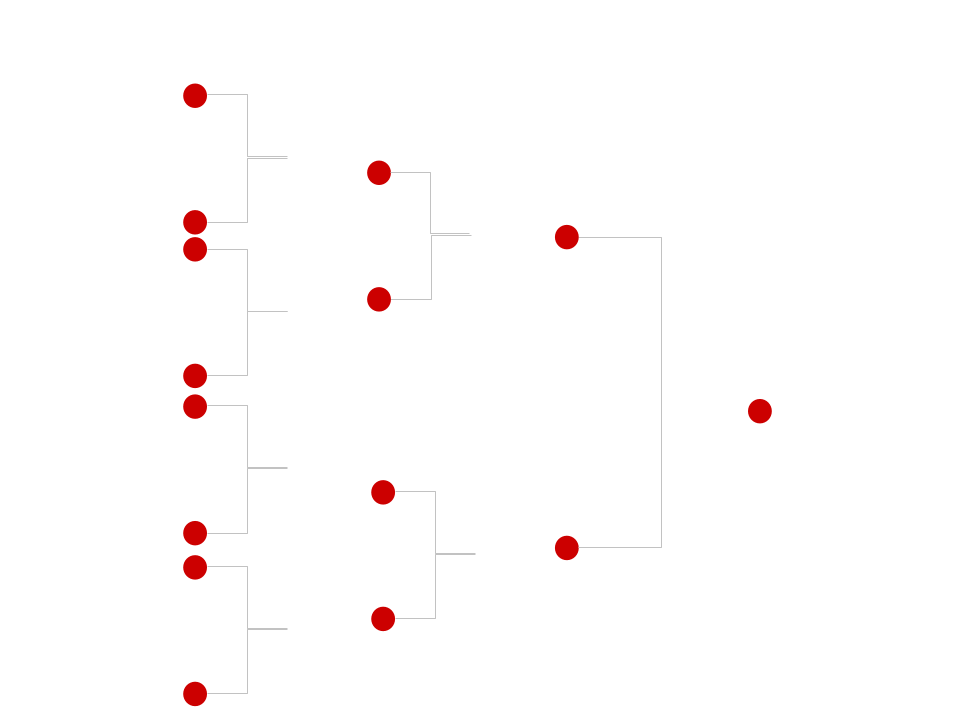
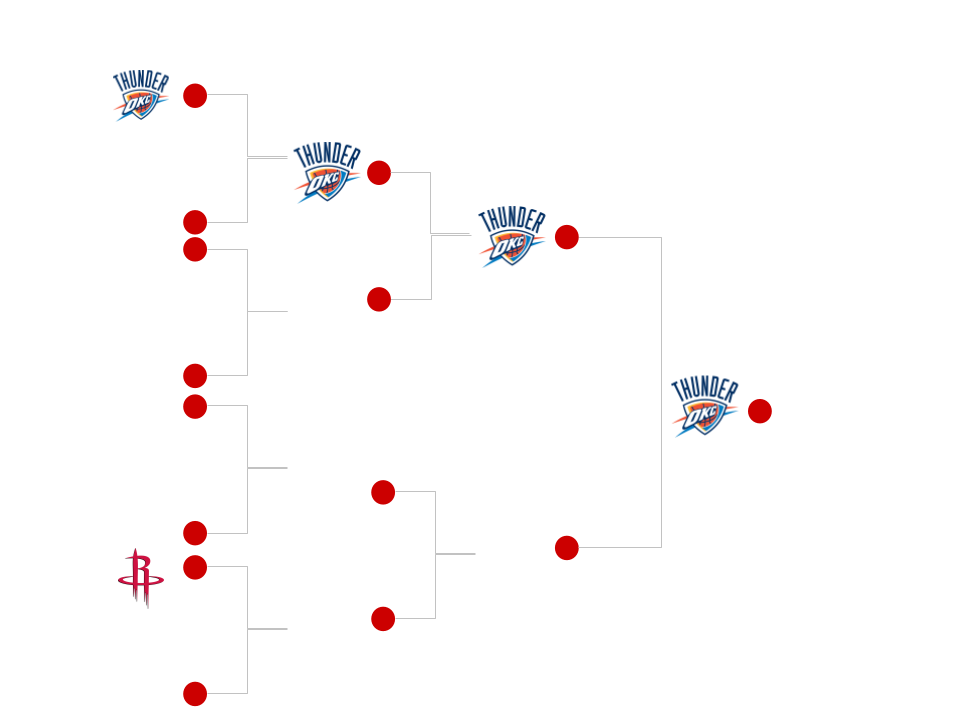
finished the model and page. waiting for play in round to end

diff --git a/frontend/src/prediction/Prediction.tsx b/frontend/src/prediction/Prediction.tsx
@@ -2,12 +2,19 @@ import React, { useState } from "react";
 import "./Prediction.css";
 import trophy from "./trophy.png";
 import west_bracket from "./west_bracket.png";
+import east_bracket from "./east_bracket.png";
+import thunder from "./Thunder.png";
+import * as Papa from "papaparse";
+import rawOddsCSV from "./odds/test_season_1.csv?raw";
+
 
 const Predictions: React.FC = () => {
   const [hovered, setHovered] = useState(false);
   const [loading, setLoading] = useState(false);
   const [showBackground, setShowBackground] = useState(false);
-  const [buttonVisible, setButtonVisible] = useState(true); 
+  const [buttonVisible, setButtonVisible] = useState(true);
+  const [showModal, setShowModal] = useState(false);
+  const [csvData, setCsvData] = useState<string[][]>([]);
 
   const handleClick = () => {
     setLoading(true);
@@ -16,6 +23,13 @@ const Predictions: React.FC = () => {
       setShowBackground(true);
       setButtonVisible(false);
     }, 2000);
+  };
+
+  const openModal = () => {
+    const parsed = Papa.parse<string[]>(rawOddsCSV, { skipEmptyLines: true });
+    console.log(parsed.data); 
+    setCsvData(parsed.data);
+    setShowModal(true);
   };
 
   return (
@@ -35,14 +49,45 @@ const Predictions: React.FC = () => {
           >
             {loading ? "Loading..." : "Load AI Model"}
           </button>
-
         )}
       </div>
+
+      {showBackground && <img src={west_bracket} className="bracket-image-west" alt="Bracket" />}
+      {showBackground && <img src={east_bracket} className="bracket-image-east" alt="Bracket" />}
+      {showBackground && <img src={thunder} className="thunder-image" alt="Thunder" />}
+
       {showBackground && (
-        <img src={west_bracket} className="bracket-image-west" alt="Bracket" />
+        <button className="breakdown-button" onClick={openModal}>
+          See Full Probability Breakdown
+        </button>
+      )}
+
+      {showModal && (
+        <div className="modal-overlay" onClick={() => setShowModal(false)}>
+          <div className="modal-content" onClick={(e) => e.stopPropagation()}>
+            <h2>Full Probability Breakdown</h2>
+            <div className="table-scroll">
+              <table>
+                <tbody>
+                  {csvData.map((row, i) => (
+                    <tr key={i}>
+                      {row.map((cell, j) => (
+                        <td key={j}>{cell}</td>
+                      ))}
+                    </tr>
+                  ))}
+                </tbody>
+              </table>
+            </div>
+            <button className="modal-close" onClick={() => setShowModal(false)}>
+              Close
+            </button>
+          </div>
+        </div>
       )}
     </div>
   );
 };
 
 export default Predictions;
+

diff --git a/frontend/src/prediction/Prediction.css b/frontend/src/prediction/Prediction.css
@@ -61,4 +61,105 @@
   z-index: 1;
 }
 
+.bracket-image-east {
+  position: absolute;
+  top: 58.5%;
+  right: -5%;
+  transform: translateY(-50%);
+  height: 80vh;         /* adjust as needed */
+  width: auto;
+  object-fit: contain;
+  pointer-events: none;
+  z-index: 1;
+}
 
+.thunder-image {
+  position: absolute;
+  top: 25%;
+  left: 53%;
+  transform: translate(-50%, -50%);
+  width: 180px;
+  height: auto;
+  object-fit: contain;
+  pointer-events: none;
+  z-index: 2;
+}
+
+
+.breakdown-button {
+  position: absolute;
+  left: 53%;
+  top: 35%;
+  width: 225px;
+  height: 80px;
+  transform: translateX(-50%);
+  background-color: black;
+  color: #FFD700;
+  font-weight: 600;
+  font-size: 1.1rem;
+  padding: 12px 24px;
+  border: 2px solid #FFD700;
+  border-radius: 8px;
+  cursor: pointer;
+  transition: background-color 0.3s ease, color 0.3s ease;
+  z-index: 2;
+}
+
+.breakdown-button:hover {
+  background-color: #1a1a1a;
+  color: #ffcc00;
+}
+
+.modal-overlay {
+  position: fixed;
+  top: 0;
+  left: 0;
+  width: 100%;
+  height: 100%;
+  background: rgba(0, 0, 0, 0.7);
+  display: flex;
+  justify-content: center;
+  align-items: center;
+  z-index: 20;
+}
+
+.modal-content {
+  background: white;
+  padding: 24px;
+  border-radius: 12px;
+  max-width: 80%;
+  max-height: 80%;
+  overflow-y: auto;
+  position: relative;
+  z-index: 30;
+}
+
+.table-scroll {
+  overflow-x: auto;
+  max-height: 60vh;
+  border: 1px solid #ddd;
+  margin-top: 10px;
+}
+
+table {
+  width: 100%;
+  border-collapse: collapse;
+  font-size: 0.9rem;
+}
+
+td, th {
+  border: 1px solid #ccc;
+  padding: 8px 12px;
+  text-align: left;
+}
+
+.modal-close {
+  background-color: black;
+  color: #FFD700;
+  font-weight: 600;
+  padding: 10px 20px;
+  border: none;
+  border-radius: 6px;
+  margin-top: 16px;
+  cursor: pointer;
+}
